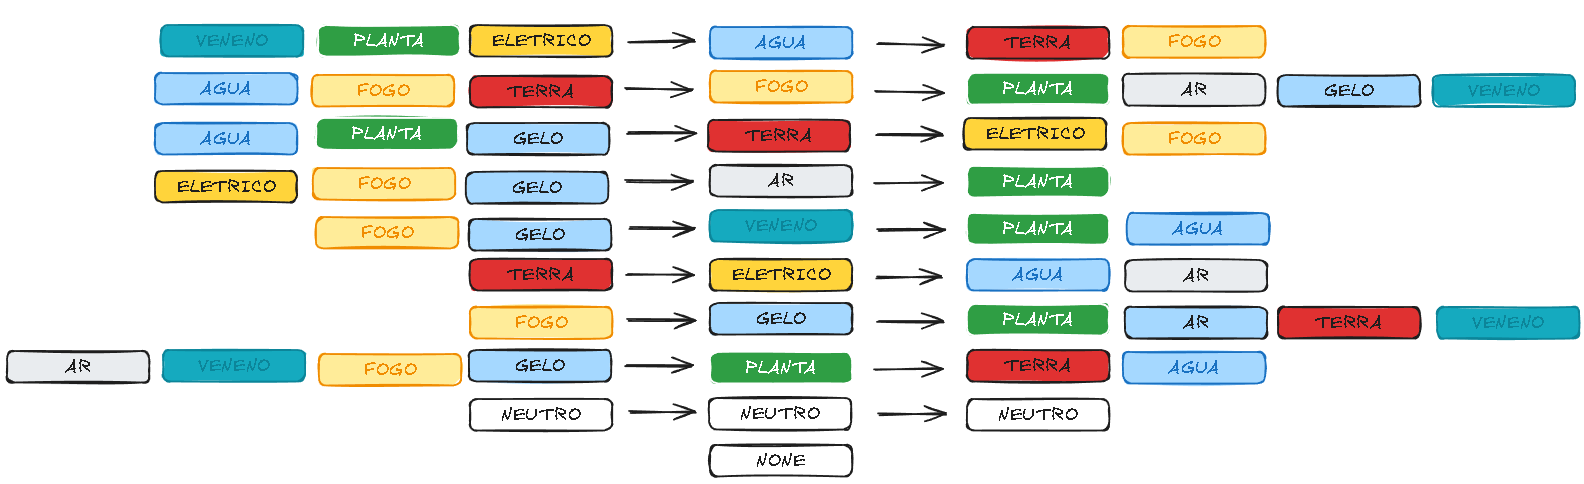
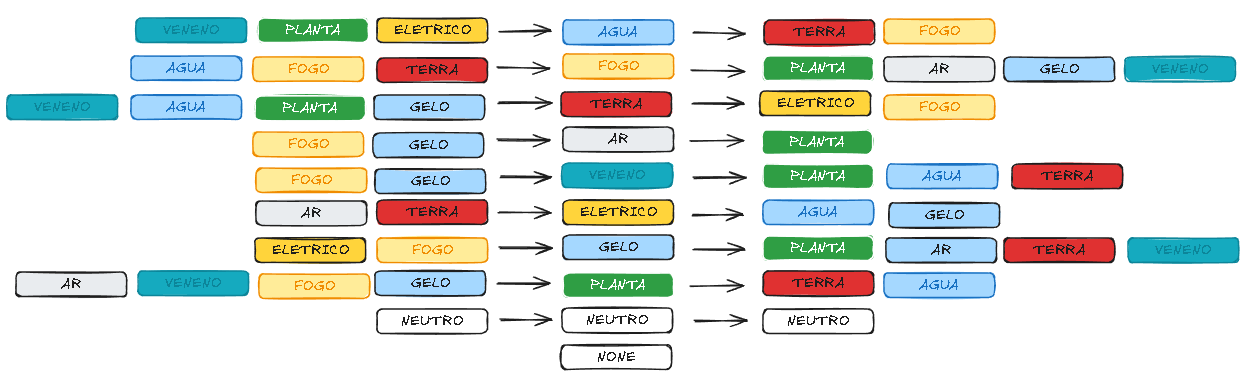
adicionada tabela de efetividades

Changed region(s): [[0.0, 0.0287, 1.0, 1.0]]

diff --git a/src/batalha/Efetividades.java b/src/batalha/Efetividades.java
@@ -5,14 +5,77 @@ import java.util.Map;
 
 public class Efetividades {
     private static final Map<Elementos, Map<Elementos, Double>> TABELA =
-            Map.of(
-                    Elementos.AGUA, Map.of(
-                            Elementos.FOGO, 2.0,
-                            Elementos.TERRA, 2.0,
-                            Elementos.AGUA, 0.5
-
+        Map.of(
+        Elementos.AGUA, Map.of(
+                Elementos.AGUA, 0.5,
+                Elementos.FOGO, 2.0,
+                Elementos.TERRA, 2.0,
+                Elementos.VENENO, 0.5,
+                Elementos.ELETRICO, 0.5,
+                Elementos.GELO, 0.5,
+                Elementos.PLANTA, 0.5
+                    ),
+        Elementos.FOGO, Map.of(
+                Elementos.AGUA, 0.5,
+                Elementos.TERRA, 0.5,
+                Elementos.VENENO, 2.0,
+                Elementos.GELO, 2.0,
+                Elementos.PLANTA, 2.0
+                    ),
+        Elementos.TERRA, Map.of(
+                Elementos.AGUA, 0.5,
+                Elementos.FOGO, 2.0,
+                Elementos.TERRA, 0.5,
+                Elementos.AR, 0.0,
+                Elementos.VENENO, 0.5,
+                Elementos.ELETRICO, 2.0,
+                Elementos.GELO, 0.5,
+                Elementos.PLANTA, 0.5
+                    ),
+            Elementos.AR, Map.of(
+                Elementos.VENENO, 1.5,
+                Elementos.ELETRICO, 2.0,
+                Elementos.GELO, 0.5,
+                Elementos.PLANTA, 2.0
+                    ),
+            Elementos.VENENO, Map.of(
+                Elementos.AGUA, 2.0,
+                Elementos.FOGO, 0.5,
+                Elementos.TERRA, 2.0,
+                Elementos.AR, 0.0,
+                Elementos.VENENO, 0.5,
+                Elementos.PLANTA, 2.0
+                    ),
+            Elementos.ELETRICO, Map.of(
+                Elementos.AGUA, 2.0,
+                Elementos.TERRA, 0.0,
+                Elementos.AR, 1.5,
+                Elementos.ELETRICO, 0.5,
+                Elementos.GELO, 0.5,
+                Elementos.PLANTA, 0.5
+                    ),
+            Elementos.GELO, Map.of(
+                Elementos.AGUA, 0.5,
+                Elementos.FOGO, 0.5,
+                Elementos.TERRA, 2.0,
+                Elementos.AR, 2.0,
+                Elementos.VENENO, 0.5,
+                Elementos.ELETRICO, 0.5,
+                Elementos.GELO, 0.5,
+                Elementos.PLANTA, 2.0
+                    ),
+            Elementos.PLANTA, Map.of(
+                Elementos.AGUA, 0.5,
+                Elementos.FOGO, 0.5,
+                Elementos.TERRA, 2.0,
+                Elementos.AR, 0.5,
+                Elementos.VENENO, 0.5,
+                Elementos.ELETRICO, 0.5,
+                Elementos.GELO, 0.5,
+                Elementos.PLANTA, 0.5
                     )
             );
+
     public static double consultar(
             Elementos atacante, Elementos defensor
     ){

diff --git a/README.md b/README.md
@@ -18,7 +18,7 @@ A devastação foi tamanha que a tecnologia foi perdida muitos lideres mundiais 
 As tais criaturas descobertas não sao de todo problema, elas cooperam conosco, o Brasil por ser um pais muito grande e diverso algumas areas como o nordeste que sofria com secas agora as criaturas nos ajudam a manter o ecossistema em equilibrio para vivermos.
 
 # Efetividades
-![img_1.png](img_1.png)
+![img.png](img.png)
 Explicação das efetividades
 ## Agua
 - Terra, pode penetrar a terra, tornando em lama e escoando
@@ -44,7 +44,8 @@ Explicação das efetividades
 
 ## Eletrico
 - Agua, se espalha pelos minerios da agua
-- Ar, com uma alta tensao se quebra a barreira diamagnetica
+- Ar, apenas com uma alta tensao se quebra a barreira diamagnetica
+- Gelo, como na agua se espelha pelos minerios
 
 ## Gelo
 - Planta, mata com geadas
